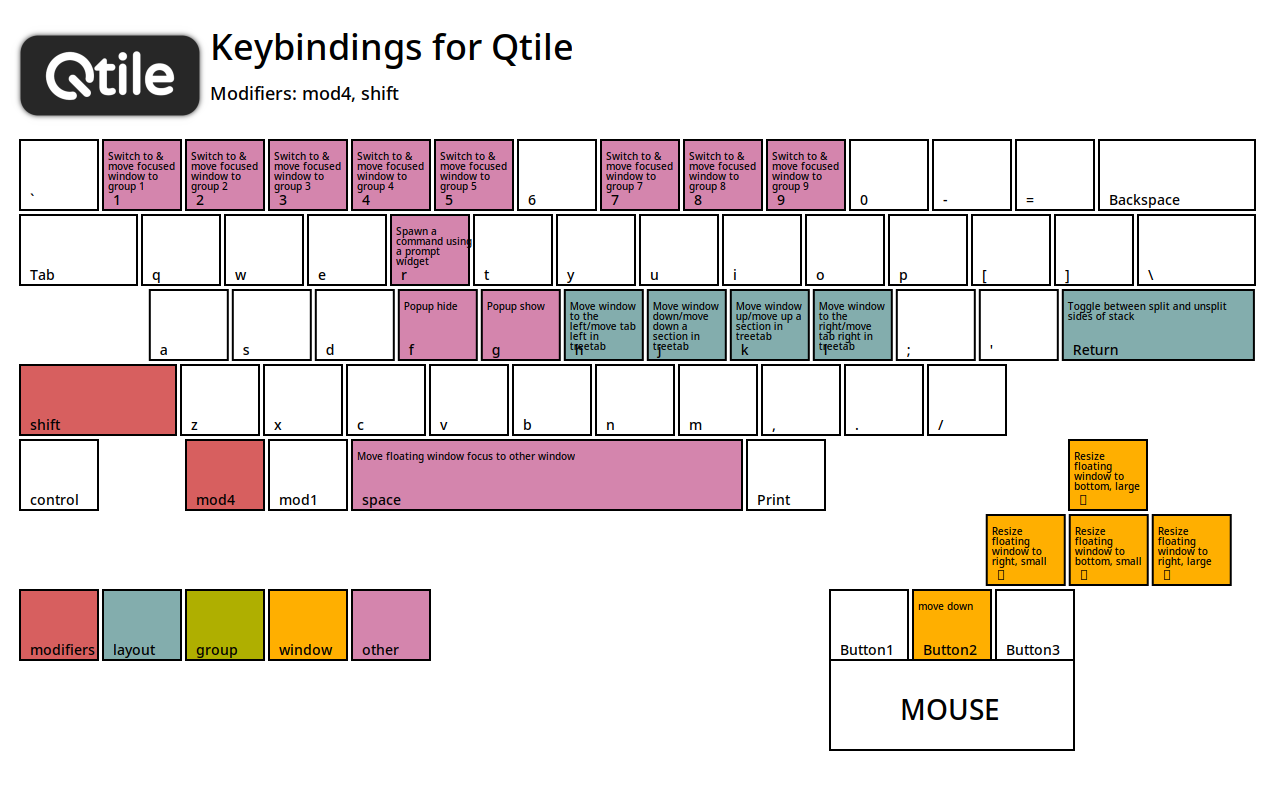
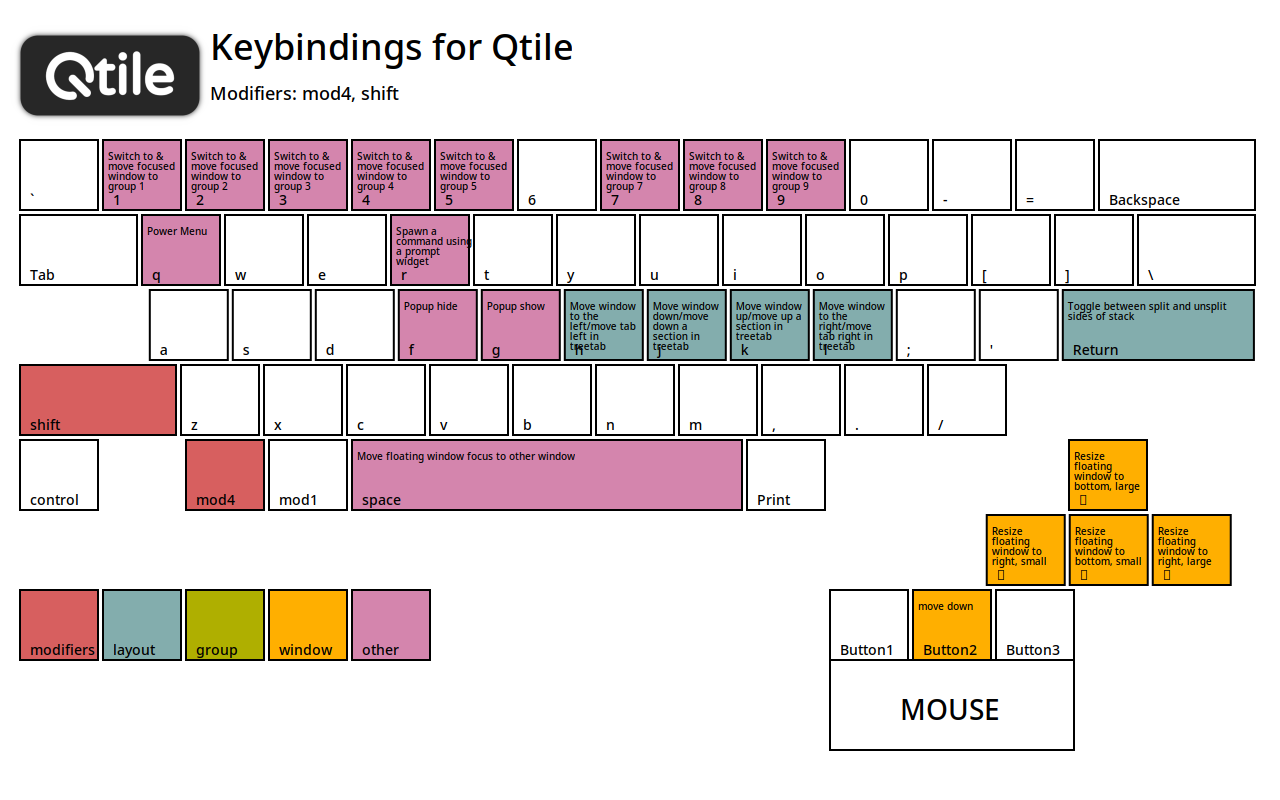
Now on working!
I'm currently working on various tasks in parallel, so I'll just save
them as they are.

Changed region(s): [[0.0938, 0.25, 0.1875, 0.375]]

diff --git a/modules/popup.py b/modules/popup.py
@@ -7,10 +7,22 @@ from libqtile import widget
 from libqtile.config import Key
 from libqtile.lazy import lazy
 #
-from qtile_extras.popup.toolkit import PopupRelativeLayout, PopupWidget
+# from qtile_extras.popup.toolkit import (
+#     PopupRelativeLayout,
+#     PopupWidget,
+#     PopupImage,
+#     PopupText,
+#     PopupRelative,
+#   )
+from qtile_extras.popup import (
+    PopupRelativeLayout,
+    PopupImage,
+    PopupText
+)
 #
 from modules.keys import keys
 from modules.variables import mod4
+from theme_colors import Theme_Colors
 
 
 def show_graphs(qtile):
@@ -59,9 +71,85 @@ def hide_graphs(qtile):
   popup_graph.hide()
 
 
+#
+# TODO: This is a study and it is currently unfinished.
+#
+def show_power_menu(qtile):
+  controls = [
+    PopupImage(
+      filename = '~/.config/qtile/icons/reshot-icon-lock-E9JS4ARYUH.svg',
+      pos_x = 0.15,
+      pos_y = 0.1,
+      width = 0.1,
+      height = 0.5,
+      mouse_callbacks = {
+        'Button1': lazy.spawn('xfce4-screensaver-command --lock')
+      }
+    ),
+    PopupImage(
+      filename = '~/.config/qtile/icons/reshot-icon-sleep-7SLFANCXGJ.svg',
+      pos_x = 0.45,
+      pos_y = 0.1,
+      width = 0.1,
+      height = 0.5,
+      mouse_callbacks = {
+        'Button1': lazy.spawn('systemctl suspend')
+      }
+    ),
+    PopupImage(
+      filename = '~/.config/qtile/icons/reshot-icon-turn-off-CDSGQH63TN-d79a9.svg',
+      pos_x = 0.75,
+      pos_y = 0.1,
+      width = 0.1,
+      height = 0.5,
+      highlight = 'A00000',
+      mouse_callbacks = {
+        'Button1': lazy.shutdown(),
+      },
+    ),
+    PopupText(
+      text = 'Lock',
+      pos_x = 0.1,
+      pos_y = 0.7,
+      width = 0.2,
+      height = 0.2,
+      h_align = 'center',
+    ),
+    PopupText(
+      text = 'Sleep',
+      pos_x = 0.4,
+      pos_y = 0.7,
+      width = 0.2,
+      height = 0.2,
+      h_align = 'center',
+    ),
+    PopupText(
+      text = 'Shutdown',
+      pos_x = 0.7,
+      pos_y = 0.7,
+      width = 0.2,
+      height = 0.2,
+      h_align = 'center',
+    ),
+  ]
+
+  layout = PopupRelativeLayout(
+    qtile,
+    width = 1000,
+    height = 200,
+    controls = controls,
+    background = ''.join([ Theme_Colors['DarkBlue_default'], '44' ]),
+    initial_focus = None,
+  )
+
+  layout.show(centered = True)
+
+
+
 keys.extend([
-  Key([mod4, 'shift'], 'g', lazy.function(show_graphs), desc = 'Popup show'),
-  Key([mod4, 'shift'], 'f', lazy.function(hide_graphs), desc = 'Popup hide')
+  Key([mod4, 'shift'], 'g', lazy.function(show_graphs),     desc = 'Popup show'),
+  Key([mod4, 'shift'], 'f', lazy.function(hide_graphs),     desc = 'Popup hide'),
+  Key([mod4, 'shift'], 'q', lazy.function(show_power_menu), desc = 'Power Menu'),
 ])
 
 

diff --git a/modules/screens_bar.py b/modules/screens_bar.py
@@ -55,10 +55,10 @@ common_config_screen = {
 }
 
 common_config_bar = {
-  "border_width": [1, 0, 1, 0],
-  "border_color": [Theme_Colors['Oreange'], Theme_Colors['Oreange'], Theme_Colors['Oreange'], Theme_Colors['Oreange']],
-  "margin": [0, 0, 0, 0],
-  "opacity": 0.90,
+  'border_width': [1, 0, 1, 0],
+  'border_color': [Theme_Colors['Oreange'], Theme_Colors['Oreange'], Theme_Colors['Oreange'], Theme_Colors['Oreange']],
+  'margin': [0, 0, 0, 0],
+  'opacity': 0.90,
 }
 
 screens = [
@@ -206,7 +206,7 @@ screens = [
 
         widget.ThermalZone(
           high = 31,
-          crit = 41, 
+          crit = 41,
 
           format = '{temp}°C',
           format_crit = '{temp}°C!!',
@@ -384,7 +384,6 @@ screens = [
       ],
 
       24,
-
       **common_config_bar,
     ),
     # You can uncomment this variable if you see that on X11 floating resize/moving is laggy
@@ -453,7 +452,7 @@ screens = [
 
           **powerline,
         ),
- 
+
         widget.WindowTabs(
           fontsize = 18,
           font = font_set['sub1'],
@@ -465,8 +464,8 @@ screens = [
           foreground = Theme_Colors['LightBlue'],
           background = Theme_Colors['DarkBlue_default'],
         ),
-      ], 
-      24, 
+      ],
+      24,
       **common_config_bar,
     ),
   ),

diff --git a/modules/groups.py b/modules/groups.py
@@ -16,6 +16,7 @@ from modules.layouts import (
     layout_setting_treeTab,
     layout_setting_floating,
     layout_setting_monadWide,
+    layout_setting_monadTail,
     layout_setting_matrix,
   )
 from modules.functions import go_to_group, go_to_group_and_move_window
@@ -59,6 +60,7 @@ groups = [
     screen_affinity = 0, position = 4,
     layouts = [
       layout.MonadWide(**layout_setting_monadWide),
+      layout.MonadTall(**layout_setting_monadTail),
       layout.Floating(**layout_setting_floating),
     ],
     init = True, persist = True,
@@ -90,7 +92,7 @@ groups = [
     screen_affinity = 1,  position = 8,
     layouts = [
       layout.Max(**layout_setting_max),
-      layout.Matrix(**layout_setting_matrix),
+      layout.Matrix(**layout_setting_matrix, columns = 2),
     ],
     init = True, persist = True,
   ),
@@ -101,7 +103,7 @@ groups = [
     layouts = [
       layout.Floating(**layout_setting_floating),
       layout.Max(**layout_setting_max),
-      layout.Matrix(**layout_setting_matrix),
+      layout.Matrix(**layout_setting_matrix, columns = 4),
     ],
     init = True, persist = True,
   ),

diff --git a/modules/layouts.py b/modules/layouts.py
@@ -82,13 +82,22 @@ layout_setting_monadWide = {
   'border_normal': Theme_Colors['Purple'],
 }
 
+layout_setting_monadTail = {
+  'border_width': 1,
+  'margin': 2,
+  'ratio': 0.7,
+
+  'border_focus': Theme_Colors['Oreange'],
+  'border_normal': Theme_Colors['Purple'],
+}
+
 layout_setting_matrix = {
   'border_focus': Theme_Colors['Oreange'],
   'border_normal': Theme_Colors['Purple'],
   'border_width': 1,
   # NOTE: 4 if the monitor is placed horizontally, 2 if placed vertically
   # TODO: Automatically detects whether the monitor is in landscape or portrait orientation
-  'columns': 2,
+  # 'columns': 2,
   'margin': 0,
 }
 

diff --git a/modules/dmenu.py b/modules/dmenu.py
@@ -40,8 +40,8 @@ dmenu_power = extension.CommandSet(
     'Systemctl:Suspend':     'systemctl suspend',
     'Systemctl:Hibernate':   'systemctl hibernate',
     # NOTE: After the introduction of Xfce4, this system
-    'Xfce4:Screensaver':     'xfce4-screensaver-command -l',
-    'Xfce4:Lock':            'xfce4-screensaver-command -l',
+    'Xfce4:Screensaver':     'xfce4-screensaver-command --activate',
+    'Xfce4:Lock':            'xfce4-screensaver-command --lock',
     #
     'Qtile:Reboot':          lazy.reload_config(),
     # NOTE: Implementing logout from LightDM is difficult for me
